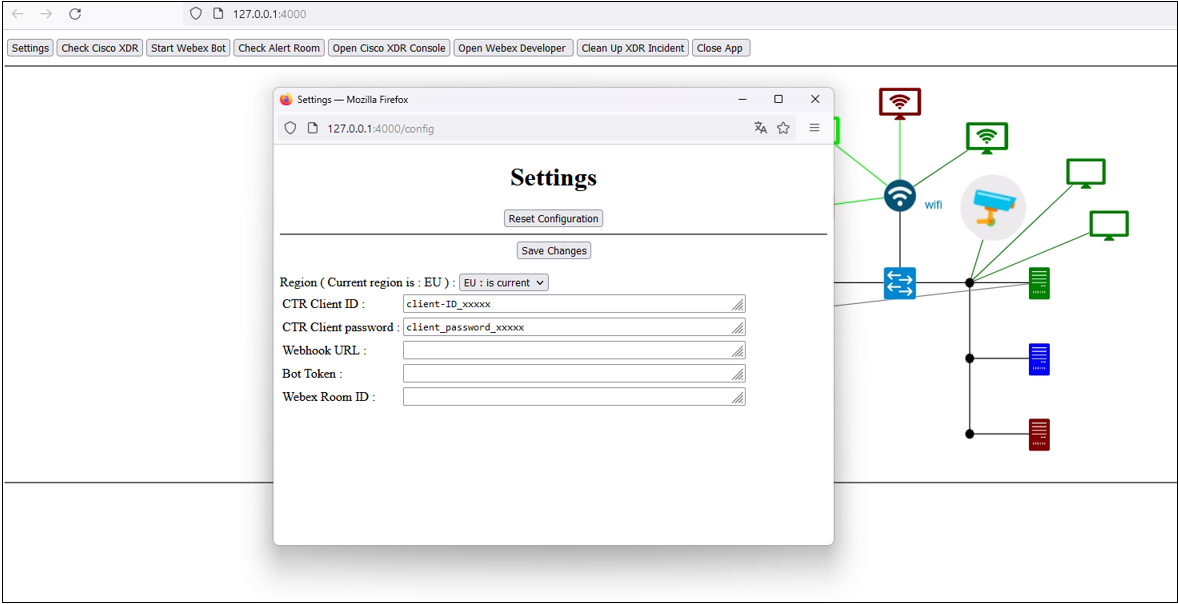
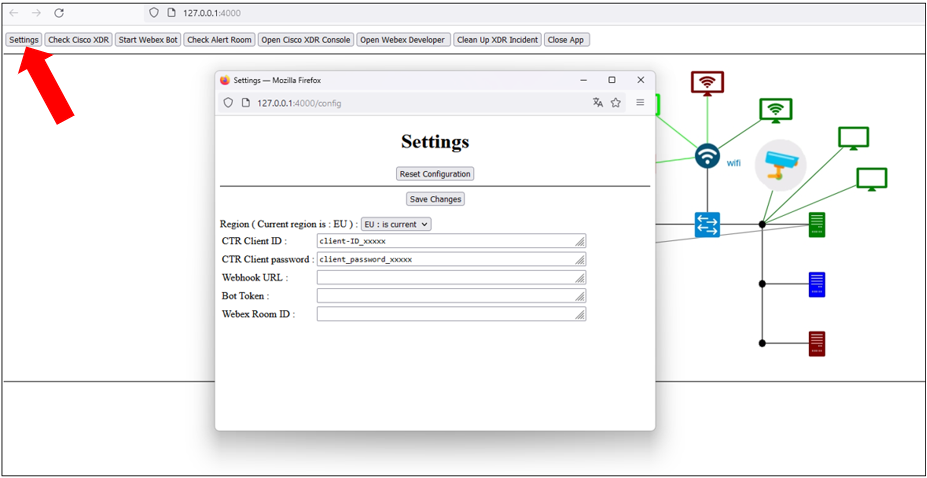
doc update

diff --git a/readme.md b/readme.md
@@ -134,4 +134,8 @@ In order to keep the XDR tenant clean and in order to keep the capability to do 
 
 For doing so, from the network diagram, just click on the **[Clean Up Incident]** Button.
 
+![](img/16.png)
+
+
+
   
